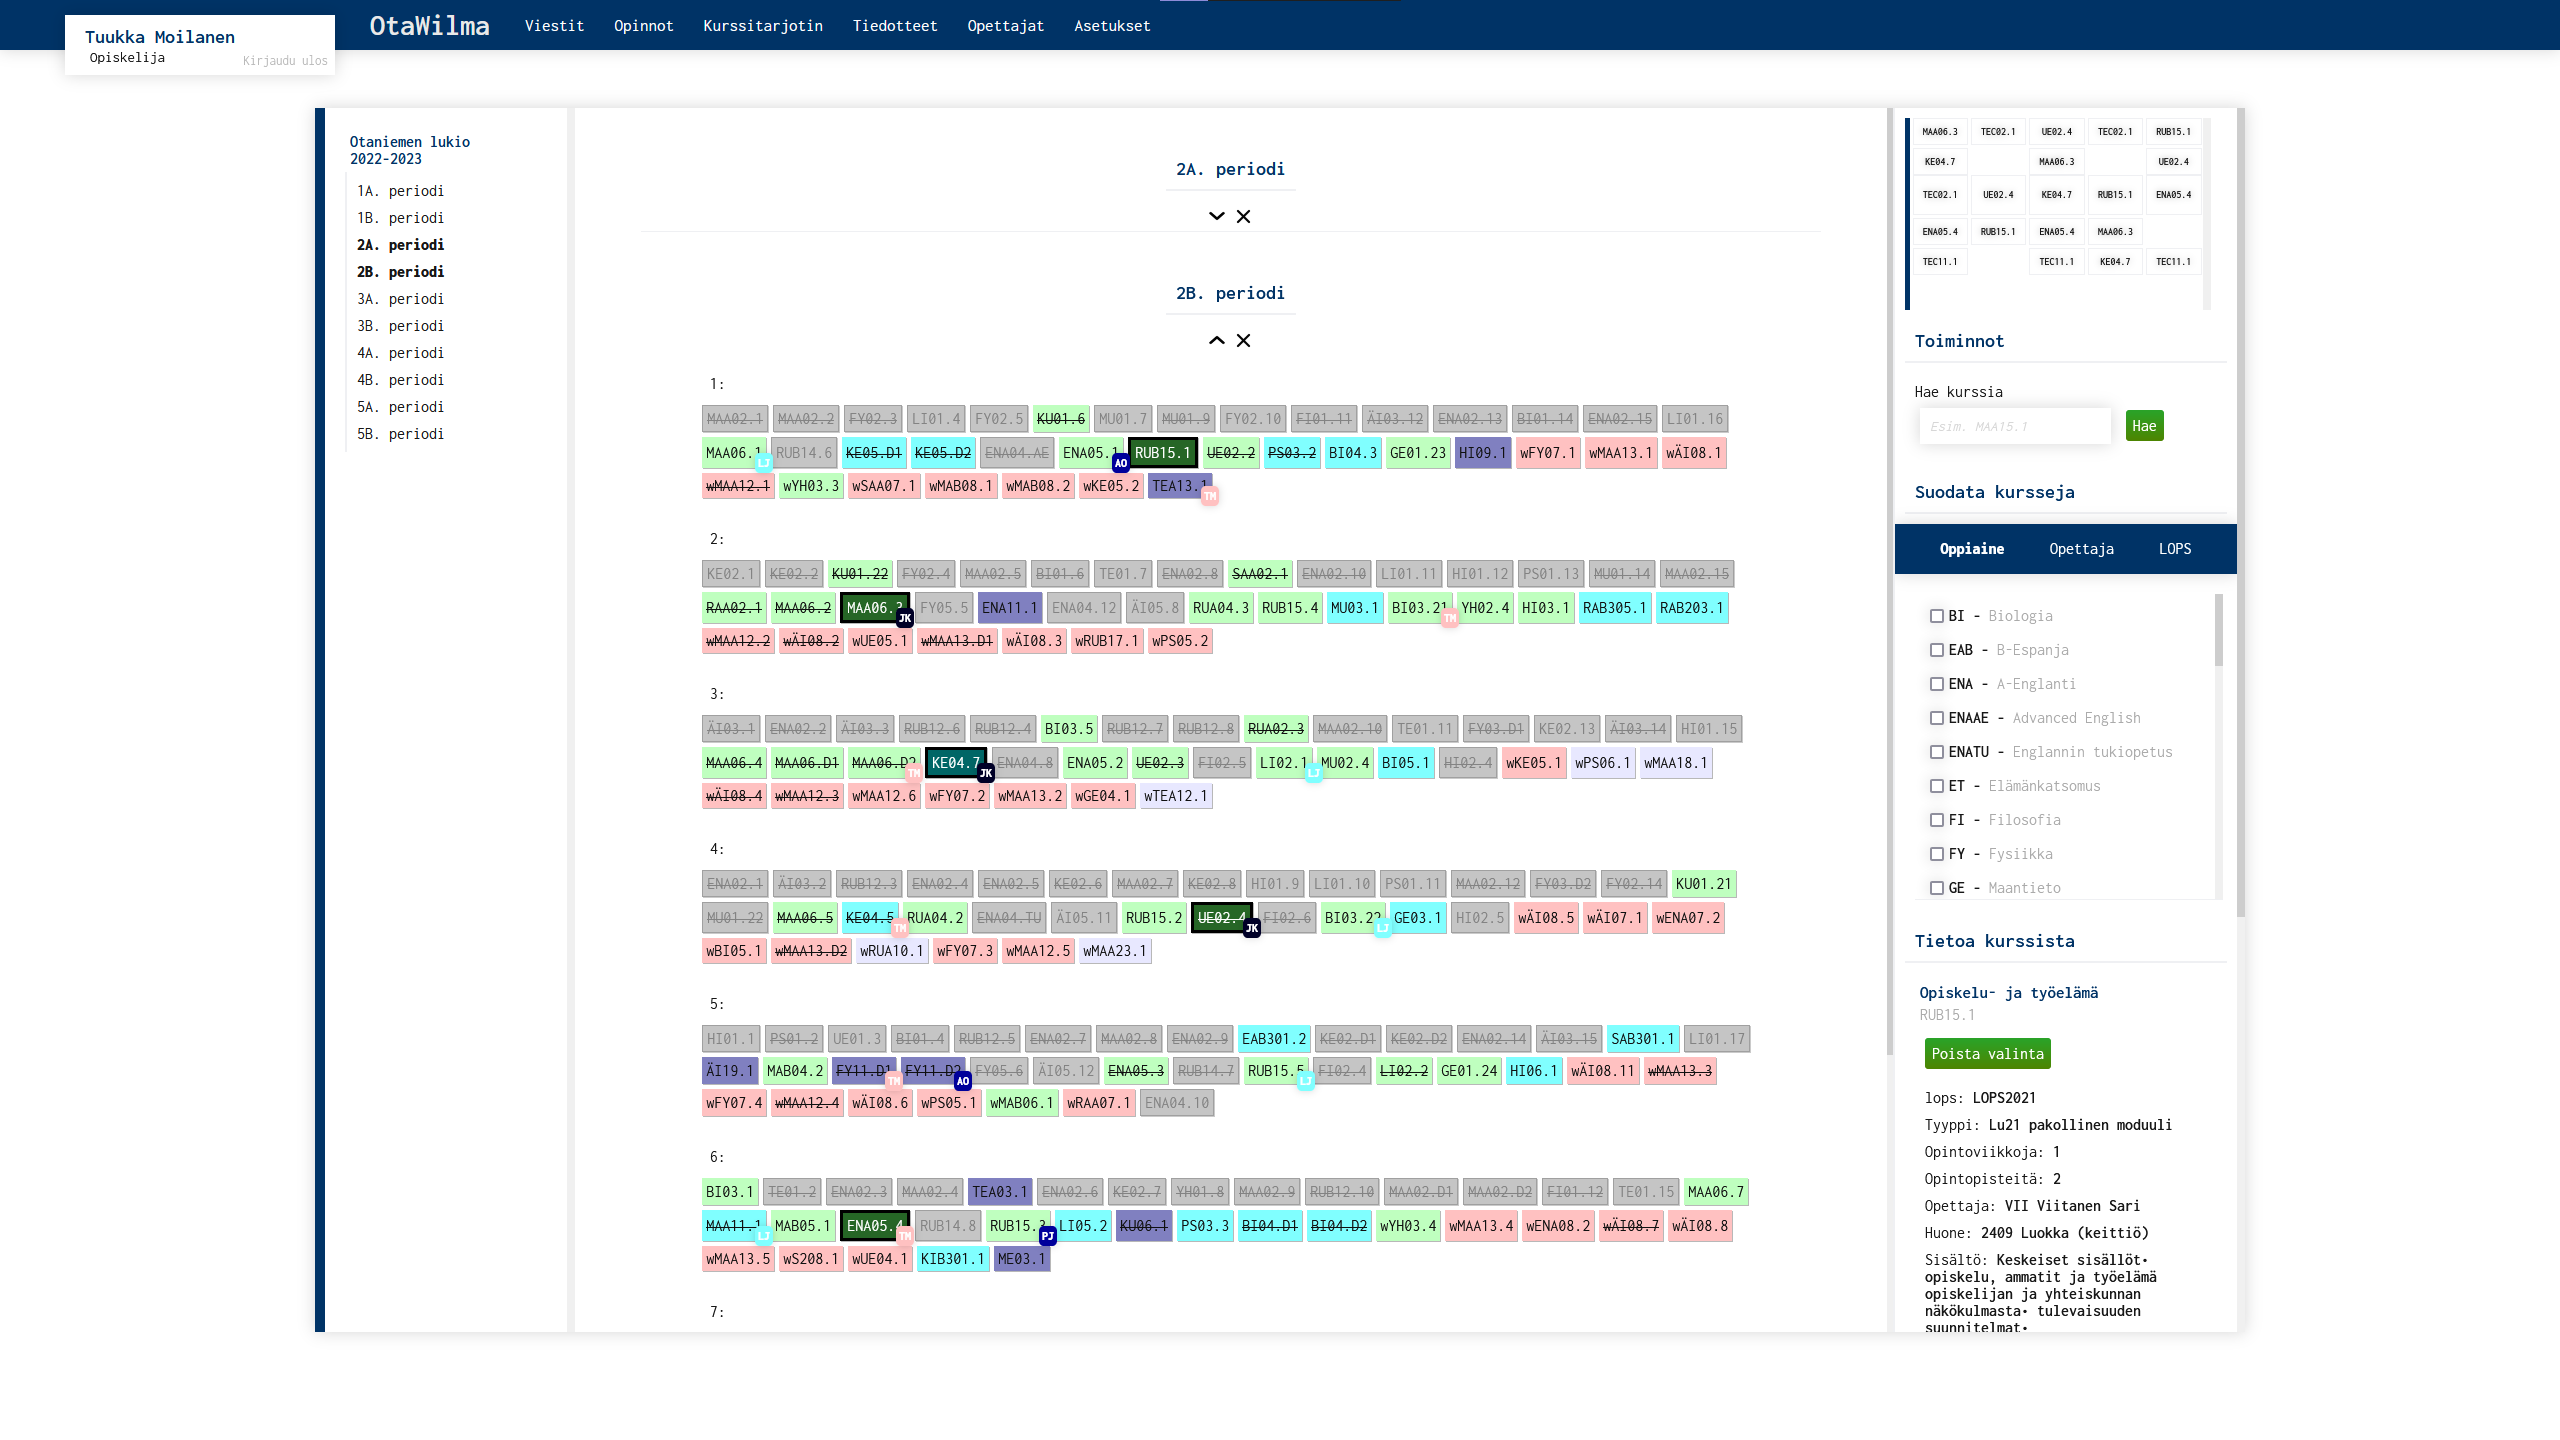
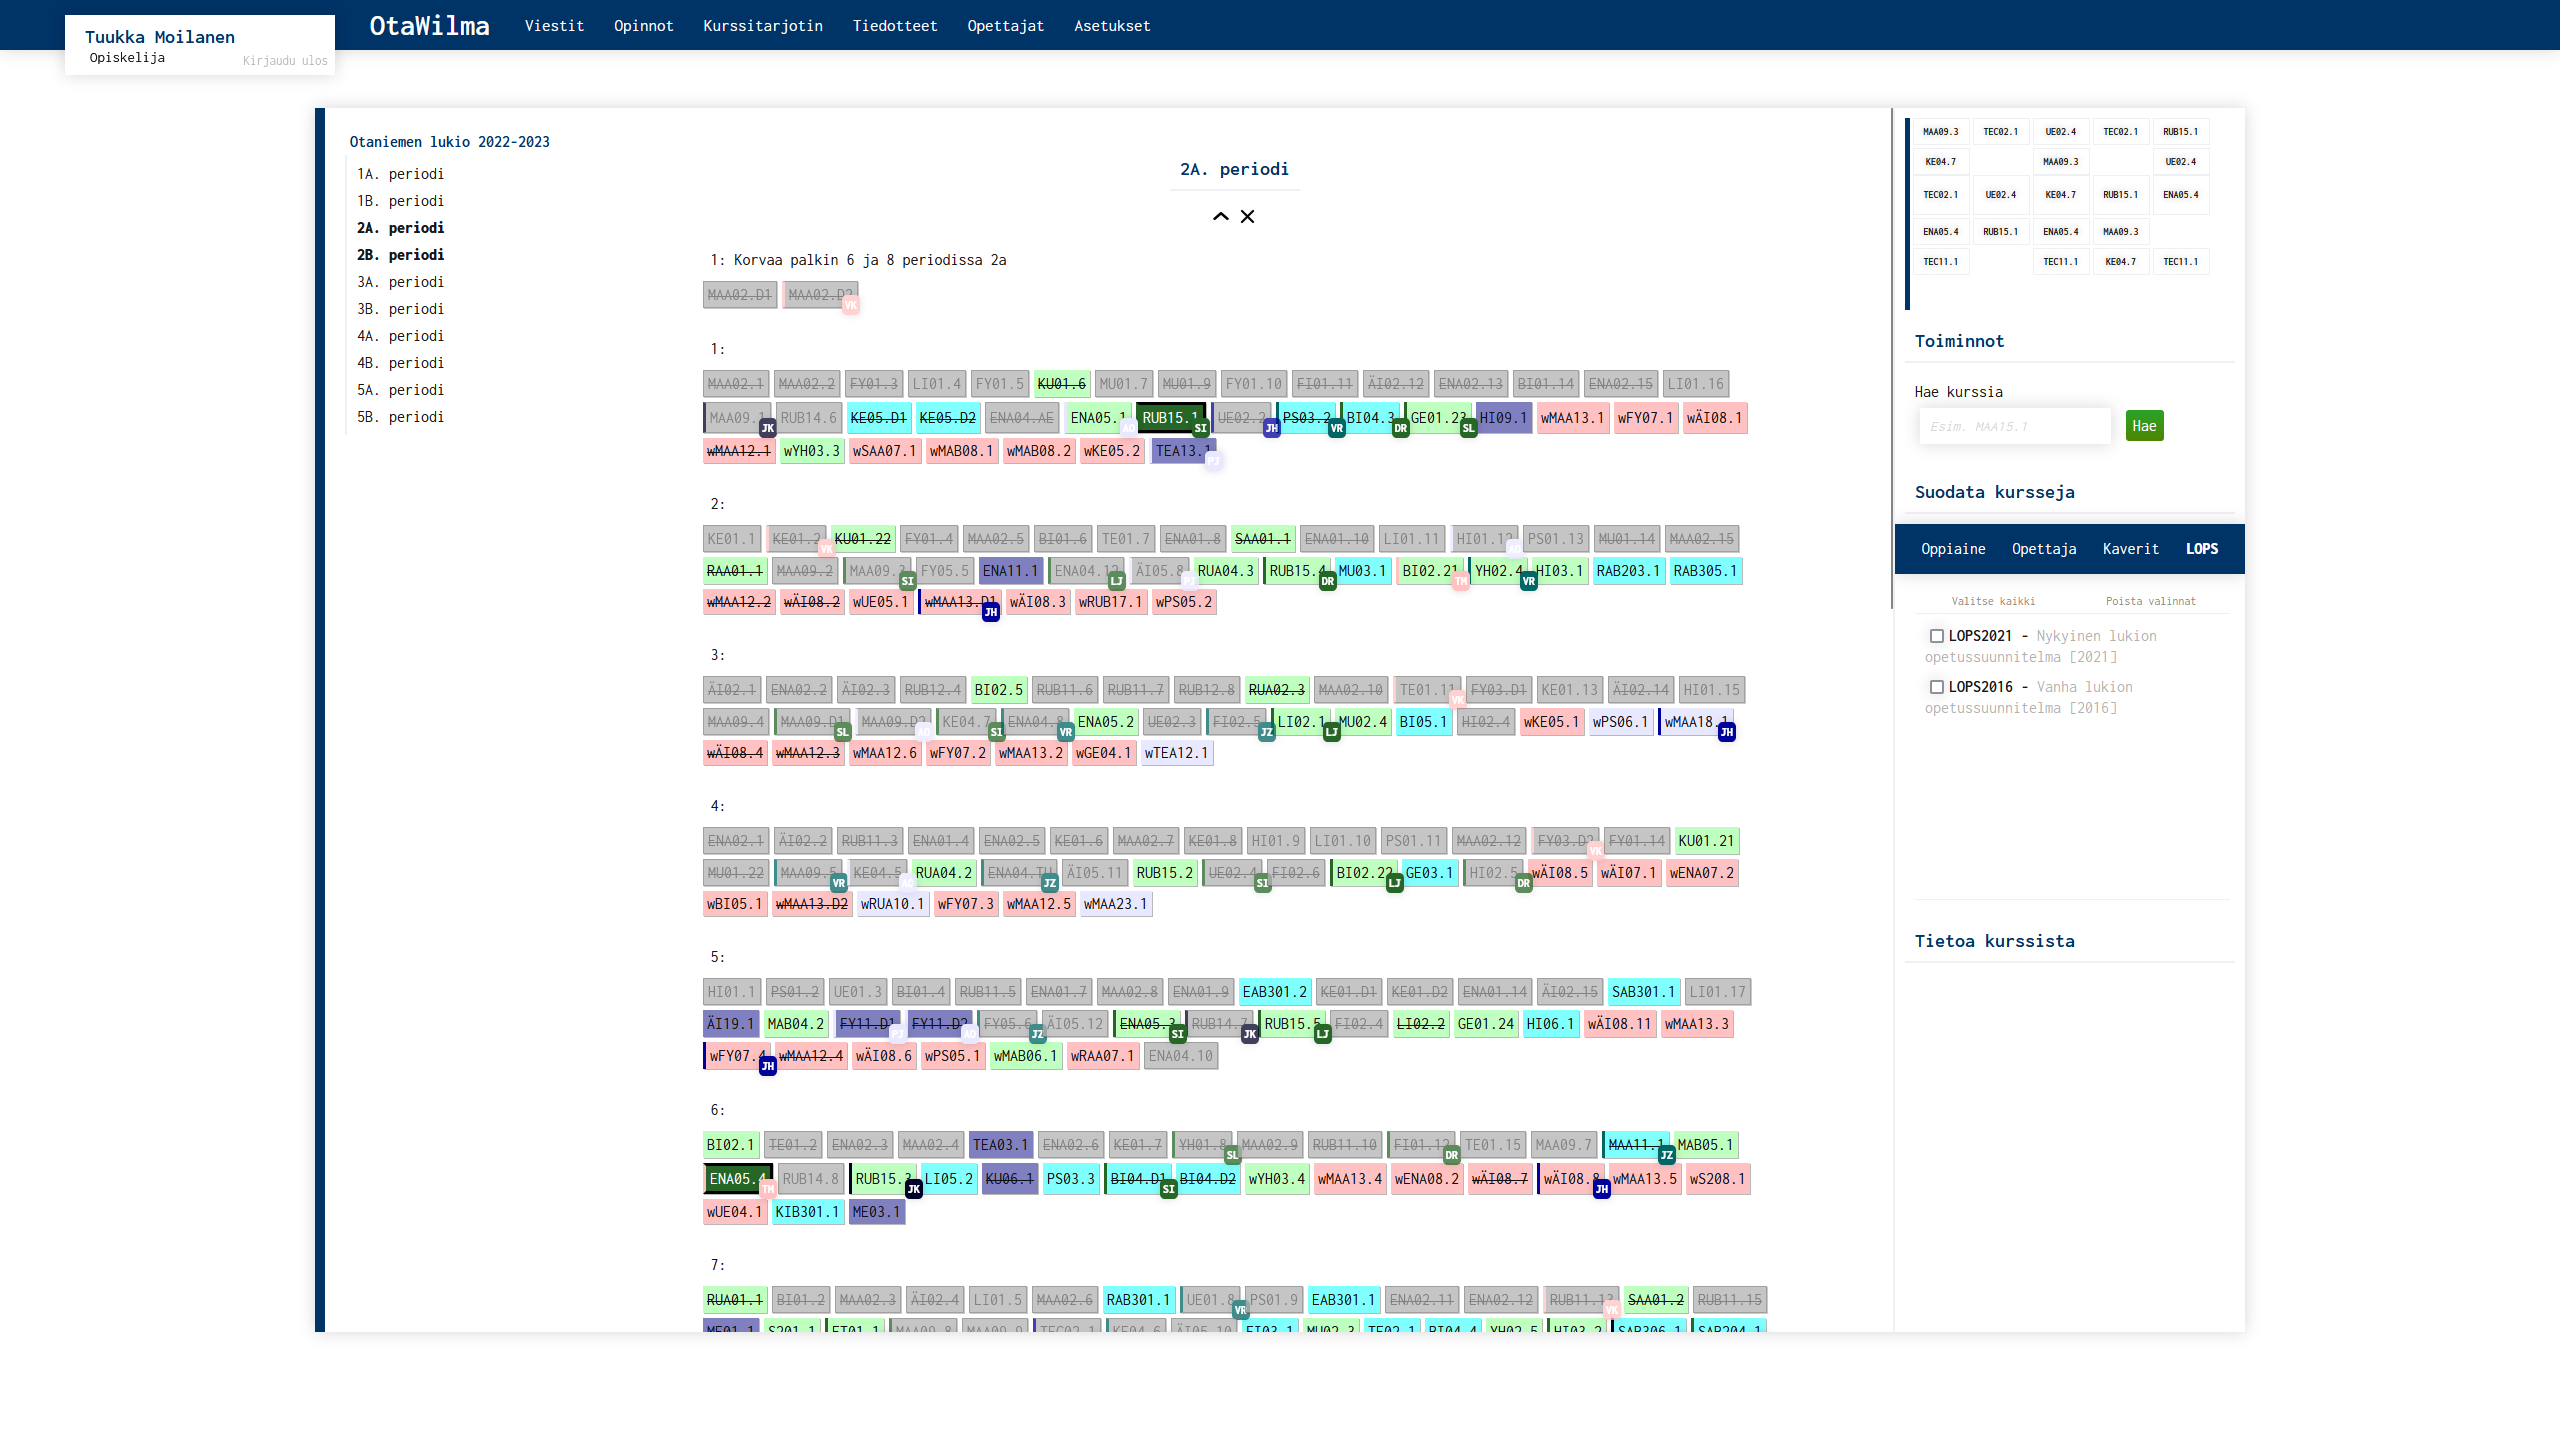
Completed courses should be filtered out when using filters

diff --git a/src/compontents/CourseTray/CourseTray.js b/src/compontents/CourseTray/CourseTray.js
@@ -213,7 +213,9 @@ const TrayBarObject = ({bar, filter, onLoad}) => {
 }
 
 const TrayCourseObject = ({friends, course, filter, onLoad}) => {
-    
+
+    if((filter.subject.length > 0 || filter.lops.length > 0 || filter.search) && !(!course.info.grade)) return <></>
+
     if(filter.search) if(!course.name.toLowerCase().includes(filter.search) && !course.code.toLowerCase().includes(filter.search)) return <></>
     if(filter.subject.length > 0) if(filter.subject.filter(r => course.code.includes(r)).length == 0) return <></>
     if(filter.teacher.length > 0) if(filter.teacher.filter(r => !(!course.info.teacher) && course.info.teacher.includes(r)).length == 0) return <></>

diff --git a/README.md b/README.md
@@ -12,7 +12,13 @@
 
 ## Theme editor
 #### Create your own themes and fully customize the look of your Wilma. With easy to use theme-editor, you are able to not able to customize **every color**, but are also able to use custom backgrounds to further boost your creative needs. With 25 theme-slots, you aren't running out of space either.
-![](/img/editor.png) Theme-editor with two custom themes created
+![](/img/2.png) Custom student made theme
+![](/img/1.png) Another student made theme
+
+## Easier course selections
+
+#### OtaWilma allows you to filter the courses you want to see in your tray. You can also set a list of teachers to make sure you are only shown courses that are taught by your favorite ones. There is also buildin selection-helper which makes sure you cannot make invalid selections (select overalapping courses, try to join on full courses etc.)
+![](/img/filter.jpg) Same tray as [in this example](#share-courses-with-your-friends), but only the subjects I might want to study on my sophomore year are shown.
 
 
 
